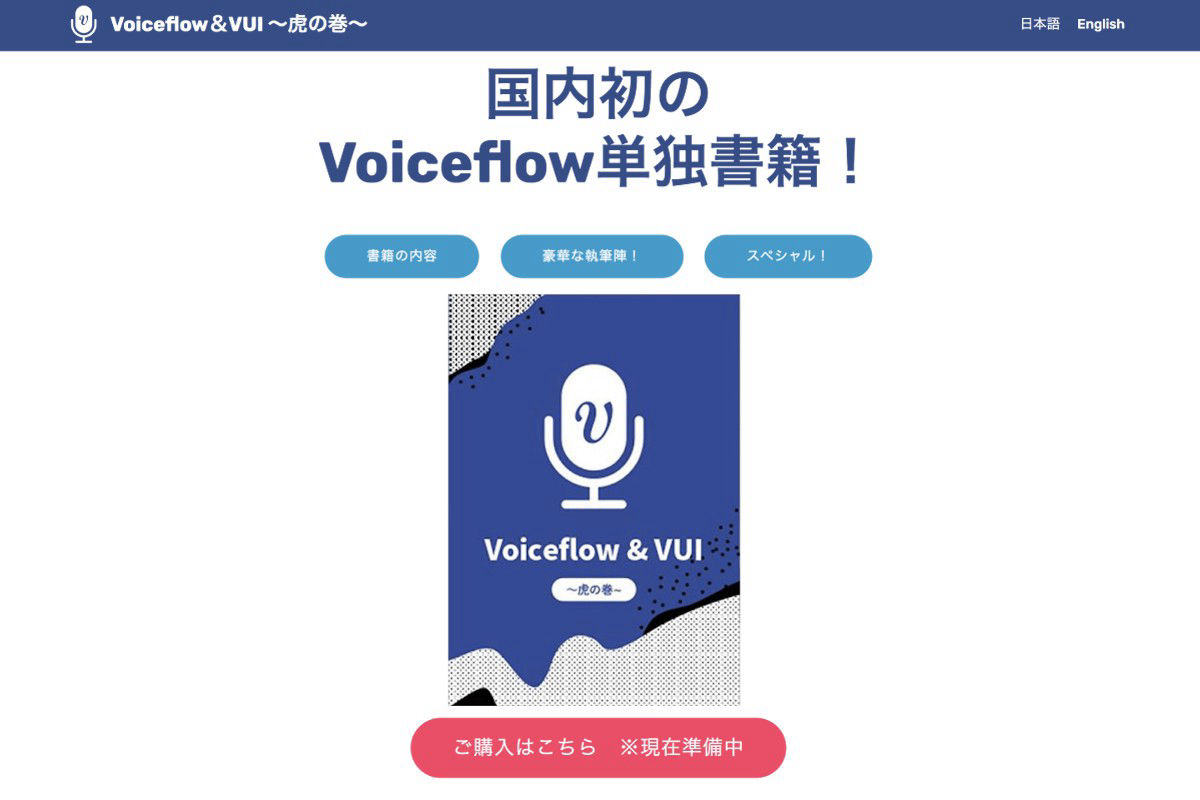
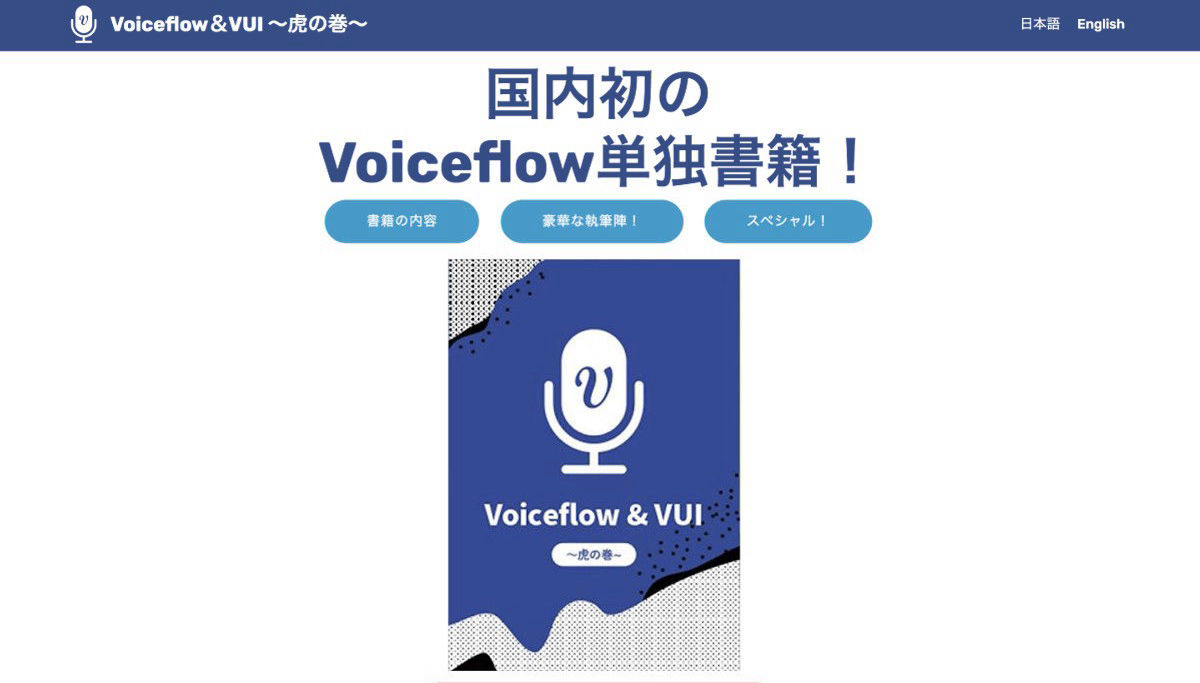
ogイメージサイズ修正

Changed region(s): [[0.0, 0.0, 1.0, 0.5227], [0.3392, 0.4612, 0.6783, 0.9839]]

diff --git a/index.html b/index.html
@@ -15,7 +15,7 @@
 <meta property="og:image" content="https://voiceflow-vui-techbook-jp.netlify.com/assets/images/index-meta-1200x800.jpg">
 <meta property="og:image:type" content="image/jpeg" />
 <meta property="og:image:width" content="1200" />
-<meta property="og:image:height" content="800" />
+<meta property="og:image:height" content="683" />
 <meta name="twitter:card" content="summary_large_image">
 <meta name="twitter:title" content="Voiceflow＆VUI 〜虎の巻〜">
 <meta name="twitter:description" content="Alexaスキルなど音声アプリをノンコーディングで作れる★国内初のVoiceflow単独書籍！日本でVoiceflow & VUI の布教に奔走するエキスパート陣およびAlexaチャンピオンが知見をご紹介。Alexaスキル、Googleアクション対応！IoTネタ有り！">

diff --git a/index_en.html b/index_en.html
@@ -15,7 +15,7 @@
 <meta property="og:image" content="https://voiceflow-vui-techbook-jp.netlify.com/assets/images/index-meta-1200x800.jpg">
 <meta property="og:image:type" content="image/jpeg" />
 <meta property="og:image:width" content="1200" />
-<meta property="og:image:height" content="800" />
+<meta property="og:image:height" content="683" />
 <meta name="twitter:card" content="summary_large_image">
 <meta name="twitter:title" content="Voiceflow＆VUI 〜虎の巻〜">
 <meta name="twitter:description" content="Alexaスキルなど音声アプリをノンコーディングで作れる★国内初のVoiceflow単独書籍！日本でVoiceflow & VUI の布教に奔走するエキスパート陣およびAlexaチャンピオンが知見をご紹介。Alexaスキル、Googleアクション対応！IoTネタ有り！">
